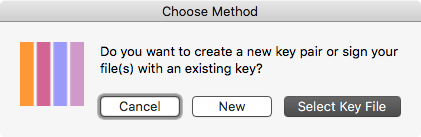
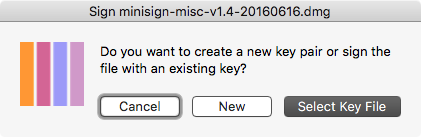
v1.4 release

Changed region(s): [[0.2162, 0.0292, 0.8029, 0.146], [0.2779, 0.438, 0.6485, 0.5547], [0.8646, 0.3504, 0.9572, 0.438]]

diff --git a/README.md b/README.md
@@ -7,9 +7,9 @@
 # Minisign Miscellanea <img src="https://github.com/JayBrown/minisign-misc/blob/master/img/jb-img.png" height="20px"/>
 **macOS workflows and shell scripts to verify and sign files with minisign**
 
-![ms-sign-screengrab](https://github.com/JayBrown/minisign-misc/blob/master/img/minisign-sign-grab.png)
+![ms-sign-screengrab](https://github.com/JayBrown/minisign-misc/blob/master/img/minisign-sign-grab.png) ![ms-verify-screengrab](https://github.com/JayBrown/minisign-misc/blob/master/img/minisign-verify-grab.png)
 
-![ms-verify-screengrab](https://github.com/JayBrown/minisign-misc/blob/master/img/minisign-verify-grab.png)
+![ms-signresults-screengrab](https://github.com/JayBrown/minisign-misc/blob/master/img/minisign-signingresults-grab.png) ![ms-verifyresults-screengrab](https://github.com/JayBrown/minisign-misc/blob/master/img/minisign-verifyingresults-grab.png)
 
 ## Prerequisites
 Install using [Homebrew](http://brew.sh) with `brew install <software-name>` (or with a similar manager)
